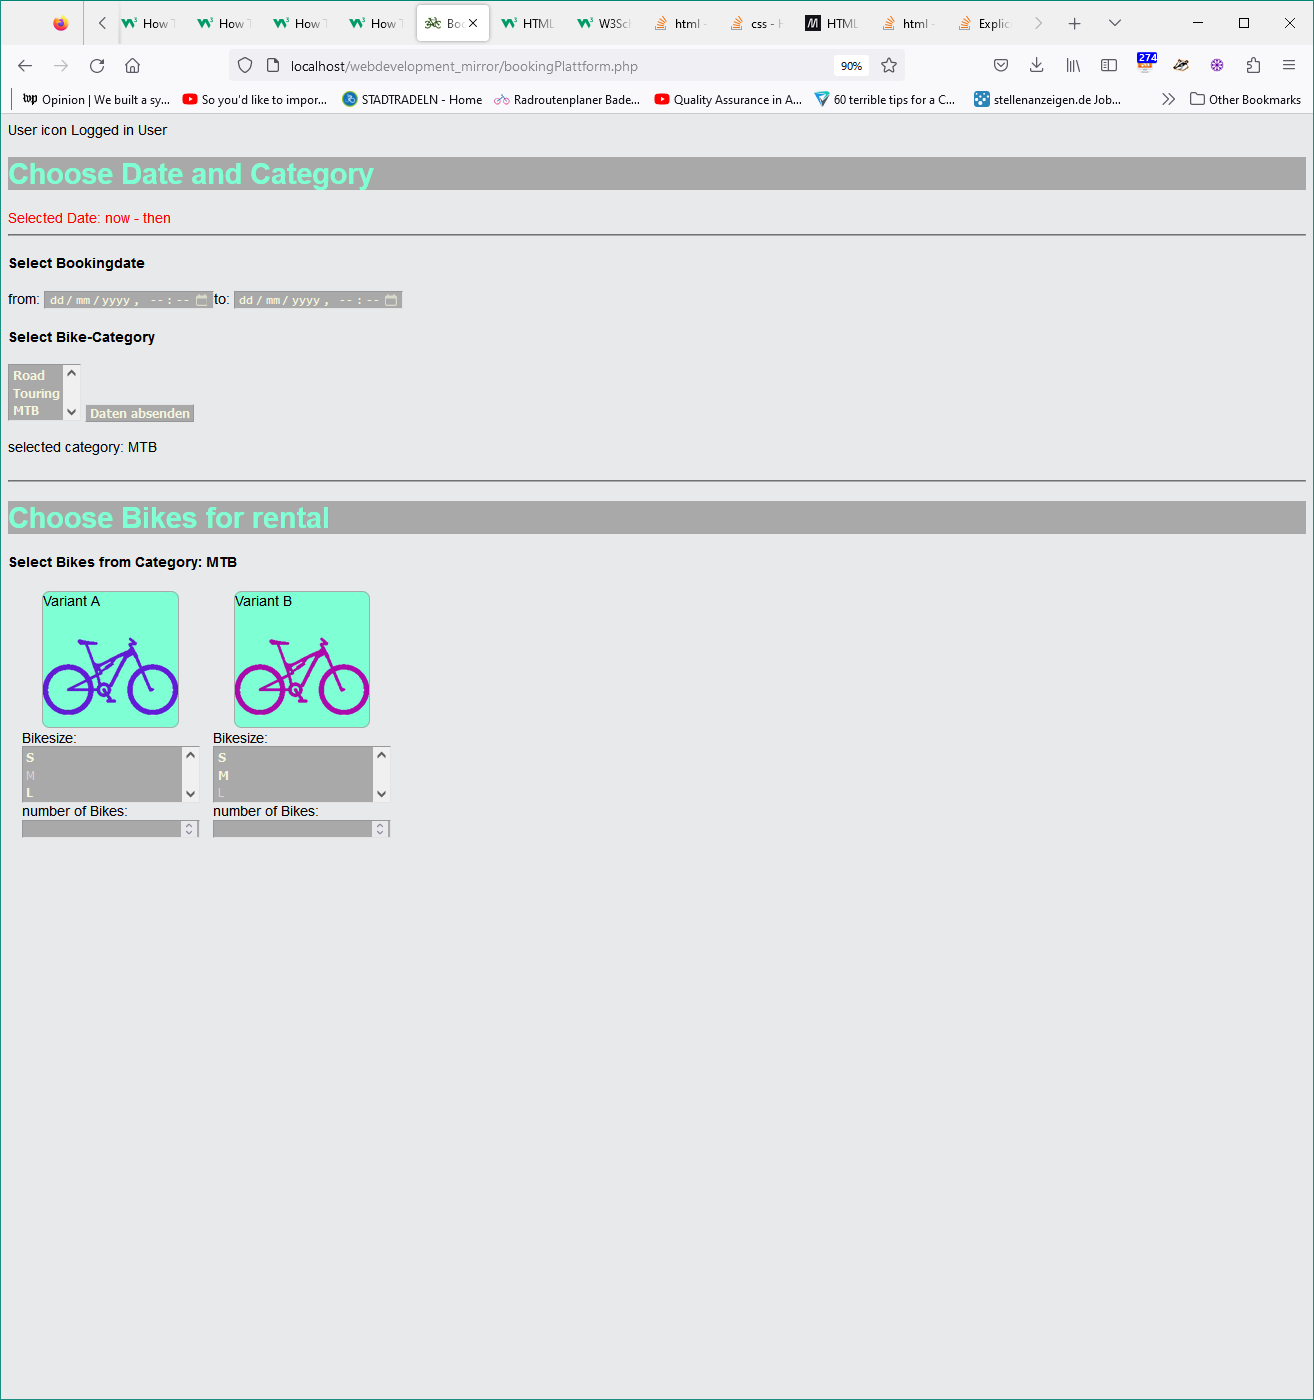
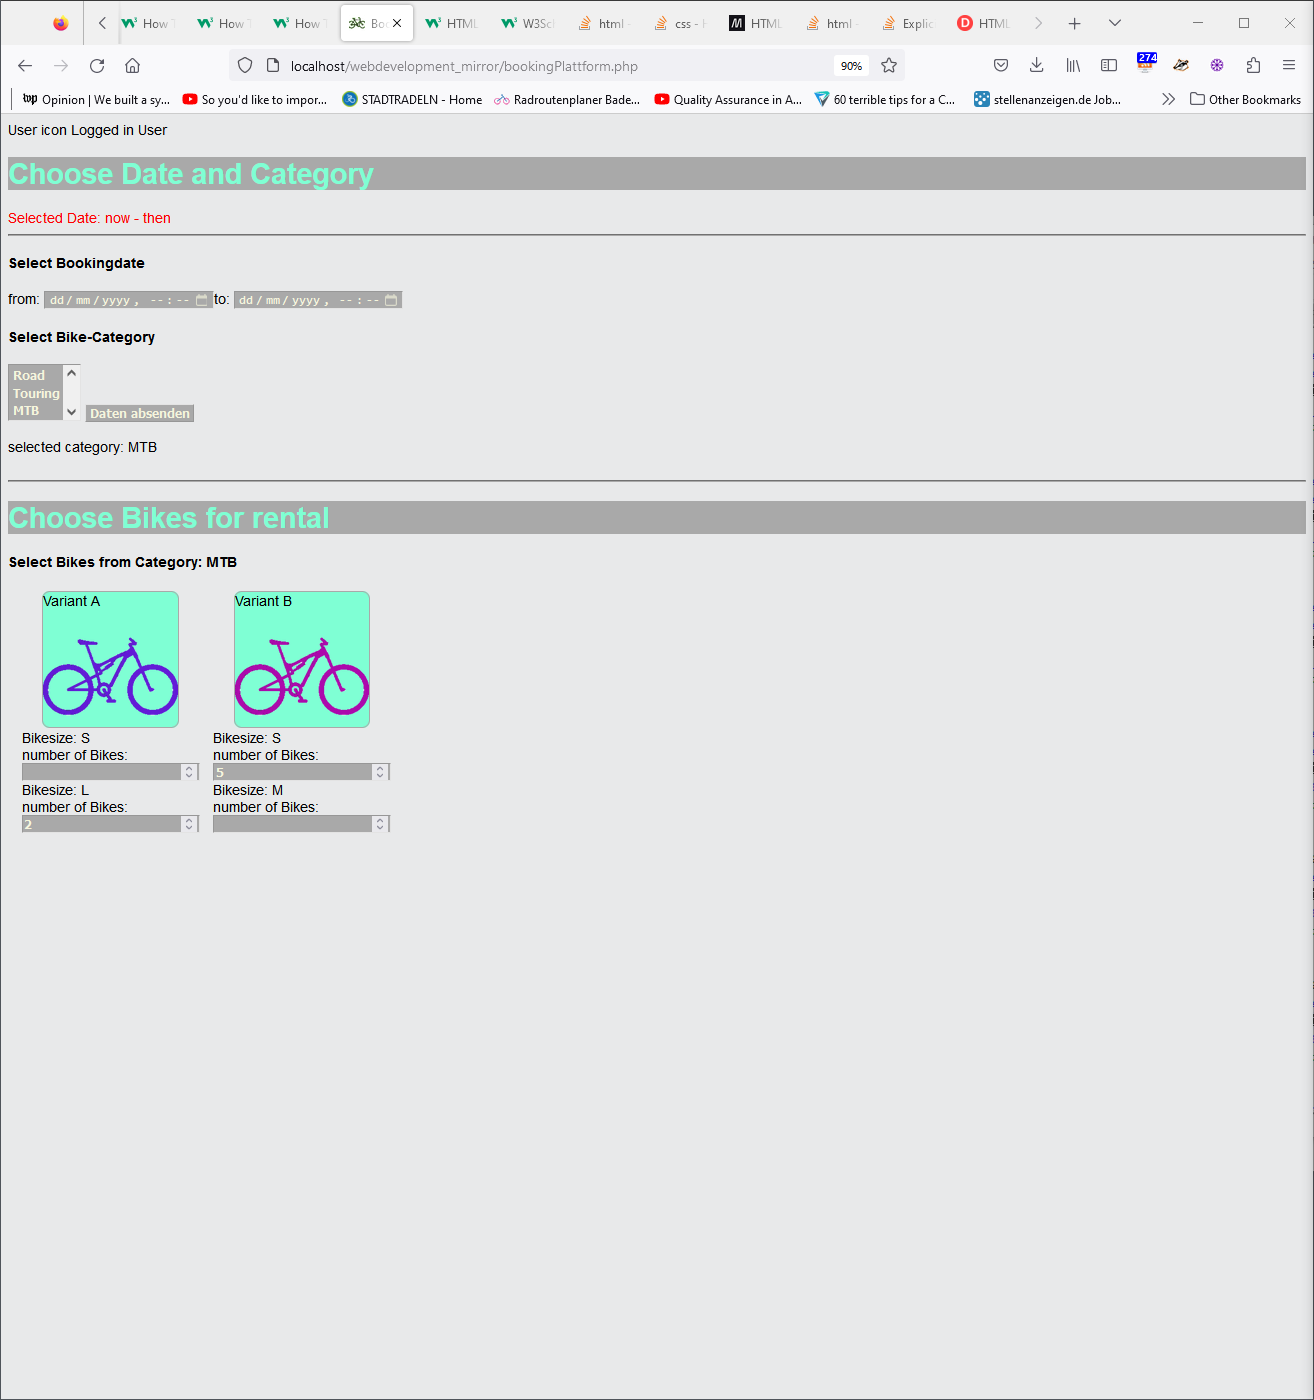
add logic for number of rentable bikes

diff --git a/bookingPlattform.php b/bookingPlattform.php
@@ -200,38 +200,60 @@ if (isset($_POST['bikeCategories']))
                 $sizeSDisabled = "disabled";
                 $sizeMDisabled = "disabled";
                 $sizeLDisabled = "disabled";
+                $sizeSHidden = "hidden";
+                $sizeMHidden = "hidden";
+                $sizeLHidden = "hidden";
+                $availableBikesS = 0;
+                $availableBikesM = 0;
+                $availableBikesL = 0;
                 foreach($bikeVar as $bike)
                 {
                     if($bike->SIZE == "S")
                     {
+                        $availableBikesS = $bike->IN_STOCK;
                         $sizeSDisabled = "";
+                        $sizeSHidden ="";
                     }
                     if($bike->SIZE == "M")
                     {
+                        $availableBikesM = $bike->IN_STOCK;
                         $sizeMDisabled = "";
+                        $sizeMHidden ="";
                     }
                     if($bike->SIZE == "L")
                     {
+                        $availableBikesL = $bike->IN_STOCK;
                         $sizeLDisabled = "";                     
+                        $sizeLHidden ="";
                     }
                 }
-                
+                /* todo: dont use select-tag for bike sizes... atm they only hold one option */
                 echo <<<OWN
                         <div class="bikeToChooseEntry">
                         <p class="stubImage">Variant $variant
                             <img class=$hue src=$imgSrc  alt="stub mtb categoryicon" width="100%" heigt="auto">
                         </p>
-                        <label >Bikesize:
-                        </label>
-                        <select name="bikeSize" size="3"> <!-- todo: make sure no additional values can be added / submitted lateron via HTML-->
-                            <option $sizeSDisabled>S</option>
-                            <option $sizeMDisabled>M</option>
-                            <option $sizeLDisabled>L</option>
-                        </select>
+                        <div $sizeSHidden>
+                        <label>Bikesize: S</label>
                         <form>
-                            <label for="numberOfBikes">number of Bikes:</label><br>
-                            <input type="number" id="numberOfBikes" name="numberOfBikes"><br>
+                            <label for="numberOfBikesSizeS">number of Bikes:</label><br>
+                            <input type="number" id="numberOfBikesSizeS" name="numberOfBikesSizeS" min="0" max=$availableBikesS><br>
                         </form>
+                        </div>
+                        <div $sizeMHidden>
+                        <label>Bikesize: M</label>
+                        <form>
+                            <label for="numberOfBikesSizeM">number of Bikes:</label><br>
+                            <input type="number" id="numberOfBikesSizeM" name="numberOfBikesSizeM" min="0" max=$availableBikesM><br>
+                        </form>
+                        </div>
+                        <div $sizeLHidden>
+                        <label>Bikesize: L</label>
+                        <form>
+                            <label for="numberOfBikesSizeL">number of Bikes:</label><br>
+                            <input type="number" id="numberOfBikesSizeL" name="numberOfBikesSizeL" min="0" max=$availableBikesL><br>
+                        </form>
+                        </div>
                         </div>
                         OWN;
                 }
